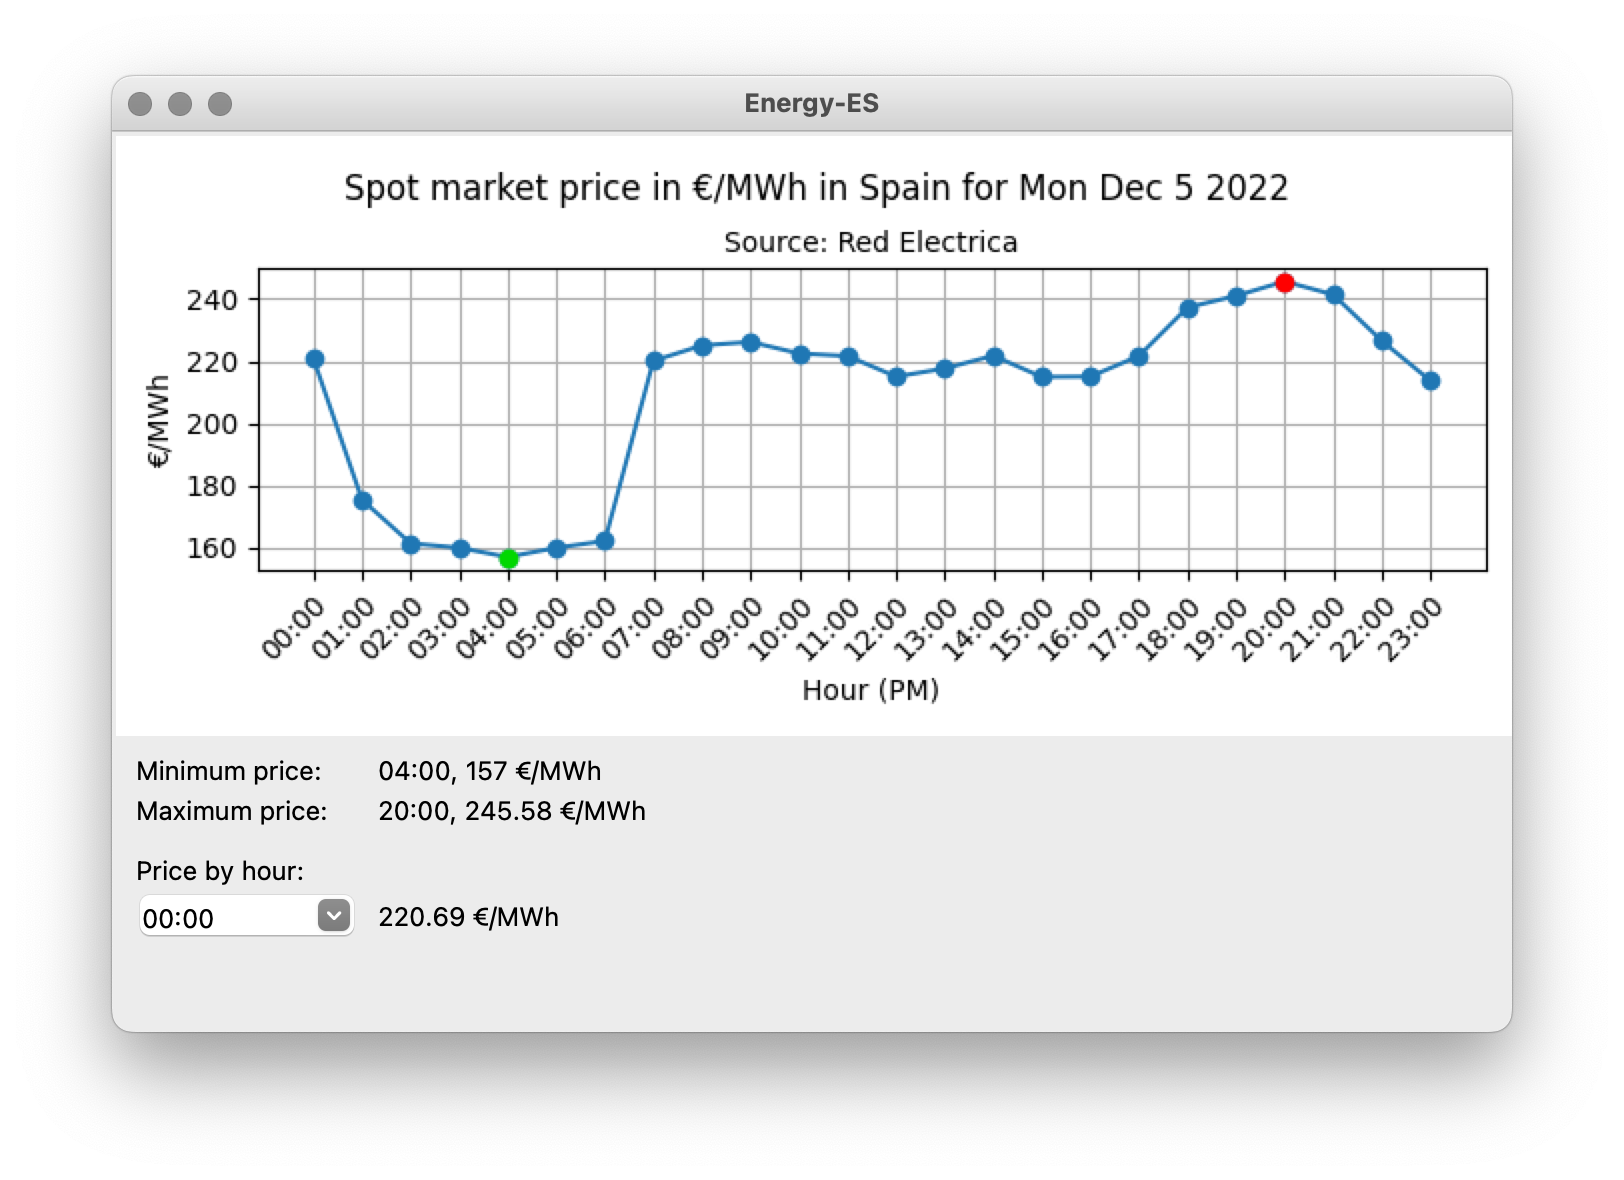
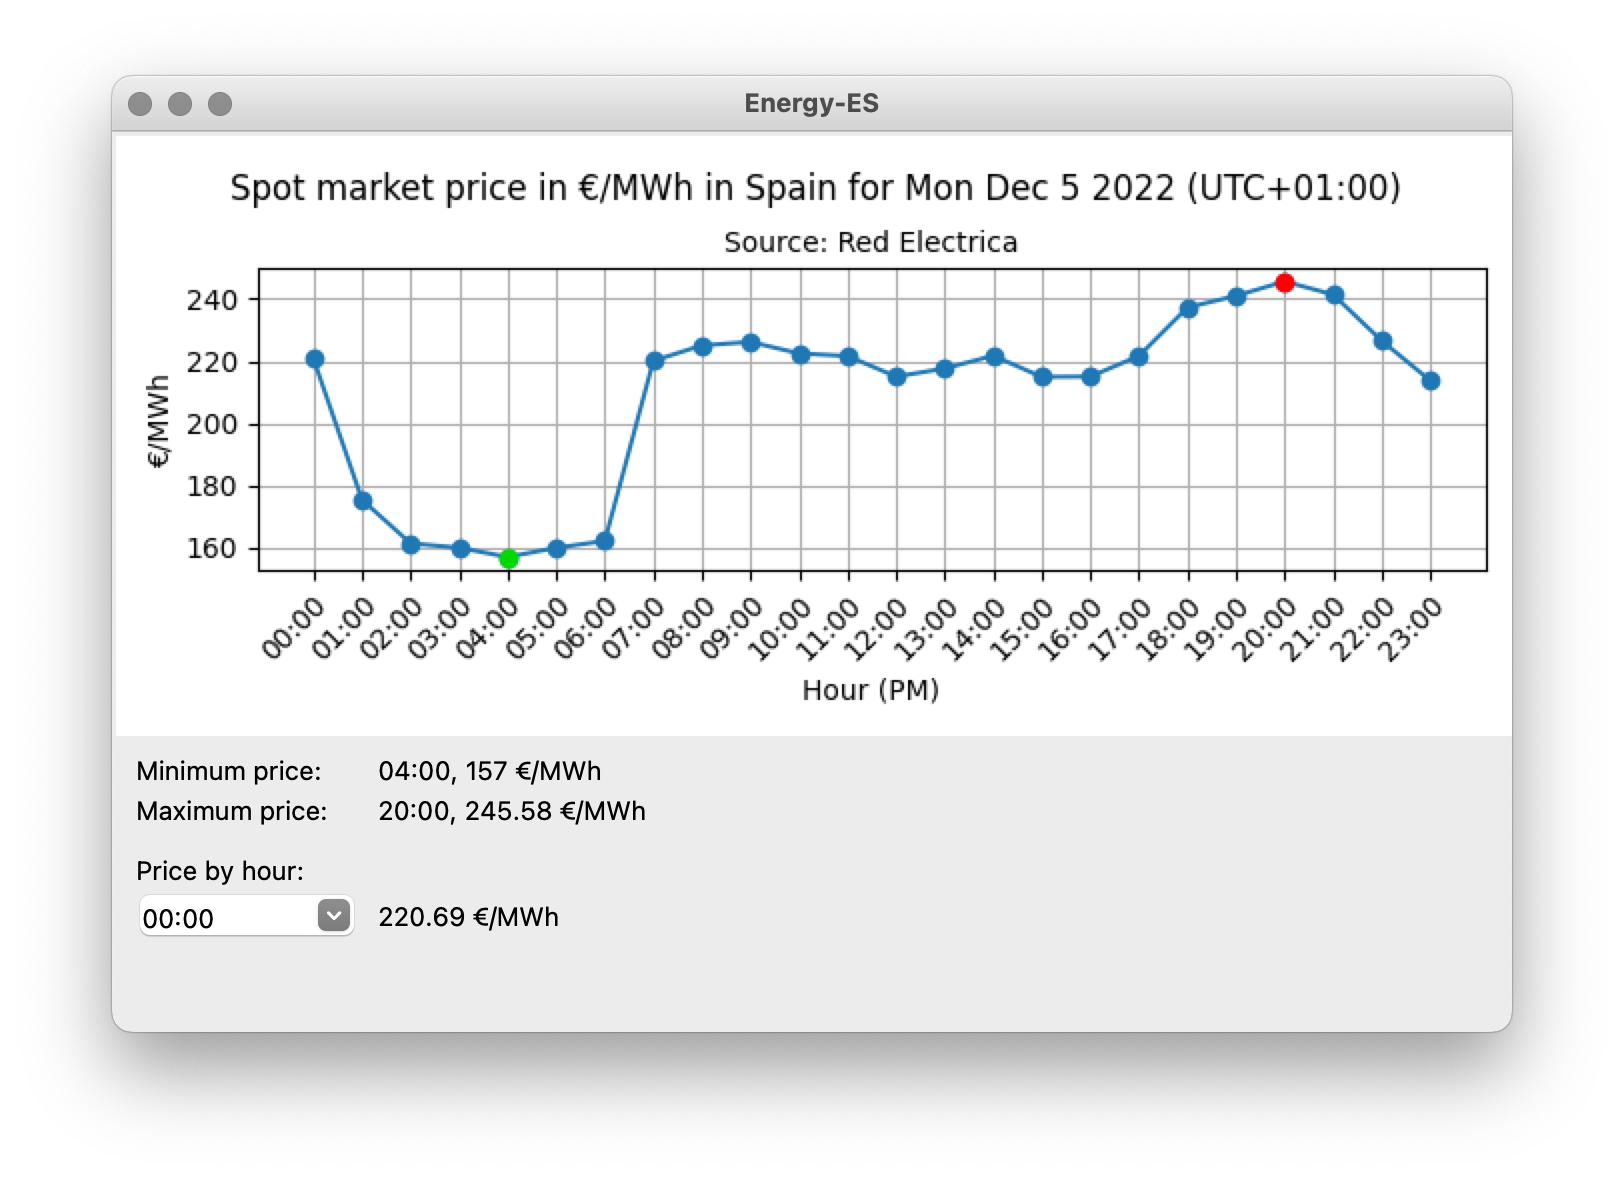
Code refactored. UTC offset added to the chart. Screenshot updated.

Changed region(s): [[0.1232, 0.122, 0.8621, 0.1831]]

diff --git a/src/energy_es/data.py b/src/energy_es/data.py
@@ -31,24 +31,60 @@ class PricesManager:
 
     def _load_data(self):
         """Load the data from the cache."""
-        self._date = self.conf.get("date")
-        self._prices = self.conf.get("prices")
+        prices = self.conf.get("prices")
+
+        if prices is not None:
+            prices = list(map(
+                lambda x: {
+                    "datetime": datetime.fromisoformat(x["datetime"]),
+                    "value": x["value"]
+                },
+                prices
+            ))
+
+        self._prices = prices
 
     def _save_data(self):
         """Save the data to the cache."""
-        self.conf.set("date", self._date)
-        self.conf.set("prices", self._prices)
+        prices = list(map(
+            lambda x: {
+                "datetime": x["datetime"].isoformat(),
+                "value": x["value"]
+            },
+            self._prices
+        ))
+
+        self.conf.set("prices", prices)
 
     def _is_data_valid(self) -> bool:
         """Check if the data is valid or not.
 
         :return: Whether the data is valid or not.
         """
-        return self._date == str(date.today()) and self._prices is not None
+        if self._prices is None:
+            return False
+
+        # Get last data datetime (which has already its UTC offset information)
+        # and the current local datetime. We call "astimezone" to convert the
+        # local datetime to the same datetime but with its time zone
+        # information (UTC offset and time zone name). This way, we can compare
+        # both datetimes.
+        d1 = self._prices[0]["datetime"]  # Last data datetime, with UTC offset
+        d2 = datetime.now().astimezone()  # Local datetime, with UTC offset
+
+        # Clear time
+        d1 = d1.replace(hour=0, minute=0, second=0, microsecond=0)
+        d2 = d2.replace(hour=0, minute=0, second=0, microsecond=0)
+
+        # Compare dates (datetimes with the same time and UTC offset)
+        return d1 == d2
 
     def _update_data(self):
         """Update the data by calling the API."""
-        # Get current day
+        # Get current day (in the local time zone). We don't need to convert it
+        # to a datetime of any time zone of Spain as the API requires input
+        # start and end datetimes but ignores them and always returns the data
+        # for the current day in Spain (in the Europe/Madrid time zone).
         today = date.today().strftime("%Y-%m-%d")
 
         # Prepare URL
@@ -82,23 +118,14 @@ class PricesManager:
             prices
         ))
 
-        # Update date
-        self._date = prices[0]["datetime"].strftime("%Y-%m-%d")
-
-        # Transform data
-        prices = list(map(
-            lambda x: {
-                "hour": x["datetime"].strftime("%H:%M"),
-                "value": x["value"]
-            },
-            prices
-        ))
-
         # Sort data
-        prices = sorted(prices, key=lambda x: x["hour"])
+        prices = sorted(prices, key=lambda x: x["datetime"])
 
         # Update prices
         self._prices = prices
+
+        # Save data
+        self._save_data()
 
     def get_prices(self) -> list[dict]:
         """Return the hourly energy prices of the current day in Spain.
@@ -108,22 +135,5 @@ class PricesManager:
         """
         if not self._is_data_valid():
             self._update_data()
-            self._save_data()
 
         return self._prices
-
-    def get_min_price(self) -> dict:
-        """Return the minimum price of the current day in Spain.
-
-        :return: Dictionary containing the "hour" (string) and "value" (float)
-        keys.
-        """
-        return min(self.get_prices(), key=lambda x: x["value"])
-
-    def get_max_price(self) -> dict:
-        """Return the maximum price of the current day in Spain.
-
-        :return: Dictionary containing the "hour" (string) and "value" (float)
-        keys.
-        """
-        return max(self.get_prices(), key=lambda x: x["value"])

diff --git a/src/energy_es/ui/main_win.py b/src/energy_es/ui/main_win.py
@@ -8,6 +8,7 @@ from tkinter.ttk import Frame, Label, Combobox
 
 from energy_es.data import PricesManager
 from energy_es.ui.chart import get_chart_widget
+from energy_es.ui.tools import get_time
 
 
 class MainFrame(Frame):
@@ -26,9 +27,10 @@ class MainFrame(Frame):
 
         try:
             pm = PricesManager()
+
             self._prices = pm.get_prices()
-            self._min_price = pm.get_min_price()
-            self._max_price = pm.get_max_price()
+            self._min_price = min(self._prices, key=lambda x: x["value"])
+            self._max_price = max(self._prices, key=lambda x: x["value"])
 
             self.create_widgets()
         except Exception:
@@ -37,7 +39,7 @@ class MainFrame(Frame):
     def create_widgets(self):
         """Create the frame widgets."""
         # Chart widget
-        self.chart = get_chart_widget(self._dt, self._prices, self)
+        self.chart = get_chart_widget(self._prices, self)
         self.chart.pack(side="top", fill="x")
 
         # We need to reset the window icon as adding the chart sets the icon to
@@ -52,7 +54,7 @@ class MainFrame(Frame):
         self.min_1 = Label(self.summary, text="Minimum price:")
         self.min_1.grid(row=0, column=0, sticky="w")
 
-        min_hour = self._min_price["hour"]
+        min_hour = get_time(self._min_price["datetime"])
         min_value = self._min_price["value"]
         min_text = f"{min_hour}, {min_value} €/MWh"
 
@@ -63,7 +65,7 @@ class MainFrame(Frame):
         self.max_1 = Label(self.summary, text="Maximum price:")
         self.max_1.grid(row=1, column=0, sticky="w")
 
-        max_hour = self._max_price["hour"]
+        max_hour = get_time(self._max_price["datetime"])
         max_value = self._max_price["value"]
         max_text = f"{max_hour}, {max_value} €/MWh"
 
@@ -77,7 +79,7 @@ class MainFrame(Frame):
             row=2, column=0, columnspan=2, pady=(10, 0), sticky="w"
         )
 
-        hours_values = [str.zfill(str(i), 2) + ":00" for i in range(24)]
+        hours_values = [get_time(i["datetime"]) for i in self._prices]
 
         self.hours = Combobox(
             self.summary, state="readonly", values=hours_values, width=10
@@ -103,7 +105,7 @@ class MainFrame(Frame):
         self.error.pack(side="top", fill="x", padx=10, pady=10)
 
     def on_hour_selected(self, event: Event):
-        """Run logic when an hour is selected.
+        """Run logic when an hour string ("HH:MM") is selected.
 
         :param event: Event object.
         """
@@ -113,7 +115,7 @@ class MainFrame(Frame):
     def select_hour(self, hour: str):
         """Select an hour.
 
-        :param: Hour ("HH:MM").
+        :param: Hour string ("HH:MM").
         """
         # Get the price for the selected hour
         i = self.hours["values"].index(hour)

diff --git a/src/energy_es/ui/chart.py b/src/energy_es/ui/chart.py
@@ -1,27 +1,28 @@
 """Energy-ES - User Interface - Chart."""
 
 from io import BytesIO
-from datetime import date
 
 import numpy as np
 import matplotlib.pyplot as plt
 from PIL import Image, ImageTk
 from tkinter.ttk import Widget, Label
 
+from energy_es.ui.tools import get_time
 
-def _get_chart_image(dt: date, prices: list[dict]) -> Image.Image:
+
+def _get_chart_image(prices: list[dict]) -> Image.Image:
     """Return the chart image.
 
-    :param dt: Date of the prices.
     :param prices: List of dictionaries, where each dictionary contains the
-    "hour" (string) and "value" (float) keys.
+    "datetime" (datetime) and "value" (float) keys.
     :return: Chart image.
     """
     # Format date
-    dt = dt.strftime(f"%a %b {dt.day} %Y")
+    dt = prices[0]["datetime"]
+    dt = dt.strftime(f"%a %b {dt.day} %Y (%Z)")
 
     # Create X axis values
-    x = list(map(lambda x: x["hour"], prices))
+    x = list(map(lambda x: get_time(x["datetime"]), prices))
     x = np.array(x)
 
     # Create Y axis values
@@ -30,12 +31,12 @@ def _get_chart_image(dt: date, prices: list[dict]) -> Image.Image:
 
     # Minimum price
     min_price = min(prices, key=lambda x: x["value"])
-    min_x = min_price["hour"]
+    min_x = get_time(min_price["datetime"])
     min_y = min_price["value"]
 
     # Maximum price
     max_price = max(prices, key=lambda x: x["value"])
-    max_x = max_price["hour"]
+    max_x = get_time(max_price["datetime"])
     max_y = max_price["value"]
 
     # Create chart
@@ -61,18 +62,15 @@ def _get_chart_image(dt: date, prices: list[dict]) -> Image.Image:
     return Image.open(buf)
 
 
-def get_chart_widget(
-    dt: date, prices: list[dict], root: Widget = None
-) -> Widget:
+def get_chart_widget(prices: list[dict], root: Widget = None) -> Widget:
     """Return the chart widget.
 
-    :param dt: Date of the prices.
     :param prices: List of dictionaries, where each dictionary contains the
     "hour" (string) and "value" (float) keys.
     :param root: Root widget.
     :return: Chart widget.
     """
-    img = _get_chart_image(dt, prices)
+    img = _get_chart_image(prices)
     img = ImageTk.PhotoImage(img)
     chart = Label(root, image=img)
 

diff --git a/src/energy_es/ui/tools.py b/src/energy_es/ui/tools.py
@@ -1,0 +1,12 @@
+"""Energy-ES - User Interface - Tools."""
+
+from datetime import datetime
+
+
+def get_time(dt: datetime) -> str:
+    """Return the time information of a datetime as a HH:MM string.
+
+    :param dt: Datetime.
+    :return: Time as a string.
+    """
+    return dt.strftime("%H:%M")
